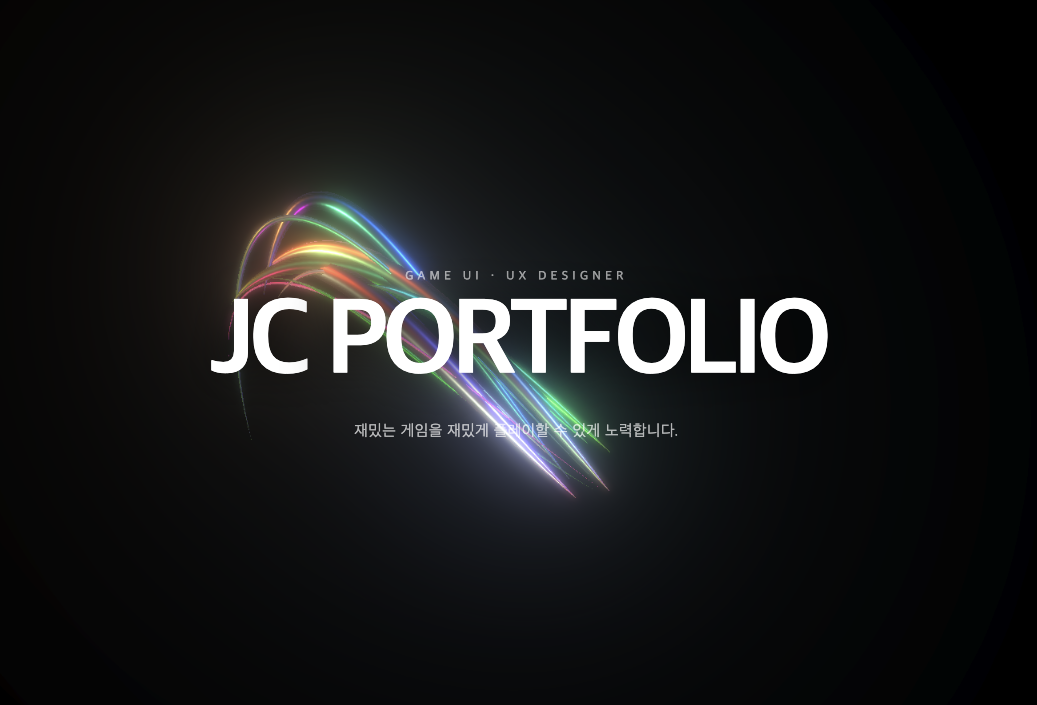
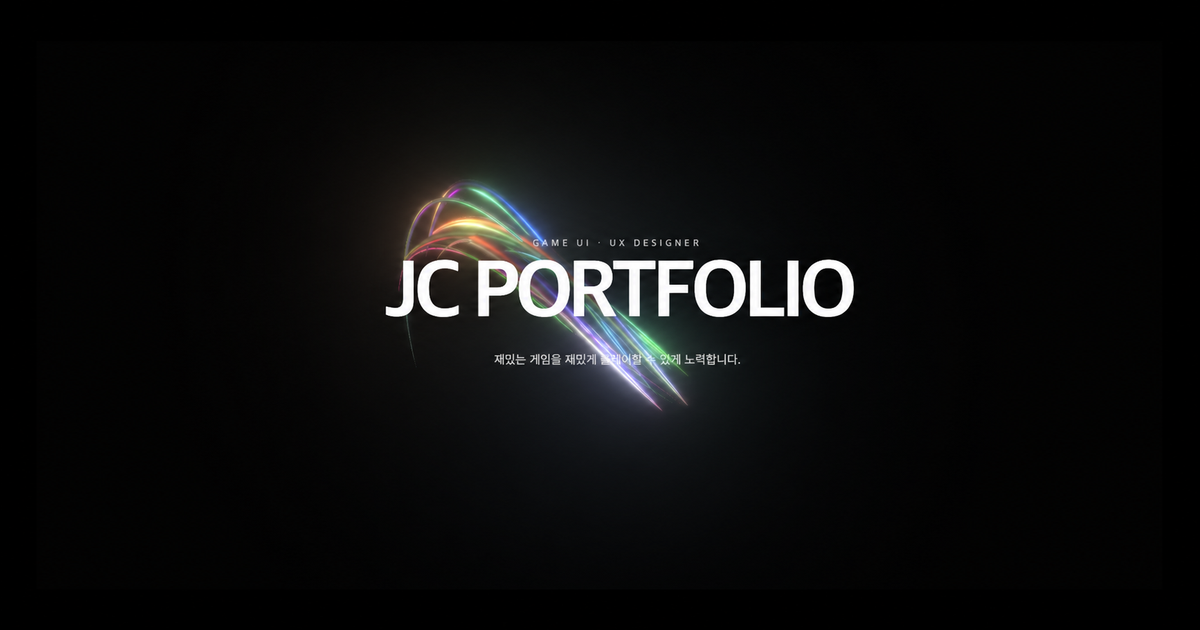
Make social preview crop-safe

Changed region(s): [[0.1851, 0.2413, 0.8023, 0.7238]]

diff --git a/src/pages/_app.js b/src/pages/_app.js
@@ -60,11 +60,11 @@ function MyApp({ Component, pageProps }) {
         <meta property="og:type" content="website" />
         <meta
           property="og:image"
-          content="https://raw.githubusercontent.com/TEIjongchan/Portfolio/main/public/images/og-portfolio.png?v=20260815-3"
+          content="https://raw.githubusercontent.com/TEIjongchan/Portfolio/main/public/images/og-portfolio.png?v=20260815-4"
         />
         <meta property="og:image:type" content="image/png" />
-        <meta property="og:image:width" content="1037" />
-        <meta property="og:image:height" content="705" />
+        <meta property="og:image:width" content="1200" />
+        <meta property="og:image:height" content="630" />
         <meta
           property="og:image:alt"
           content="네온 라인과 JC PORTFOLIO 타이틀이 표시된 포트폴리오 메인 화면"
@@ -77,7 +77,7 @@ function MyApp({ Component, pageProps }) {
         />
         <meta
           name="twitter:image"
-          content="https://raw.githubusercontent.com/TEIjongchan/Portfolio/main/public/images/og-portfolio.png?v=20260815-3"
+          content="https://raw.githubusercontent.com/TEIjongchan/Portfolio/main/public/images/og-portfolio.png?v=20260815-4"
         />
         <meta name="viewport" content="width=device-width, initial-scale=1" />
         <meta name="theme-color" content="#050505" />
